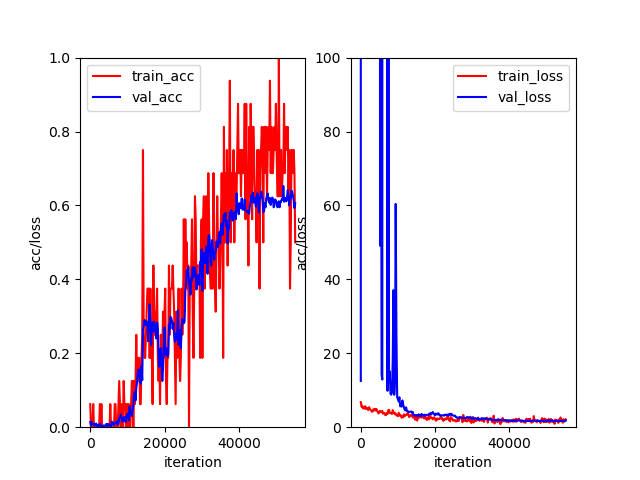
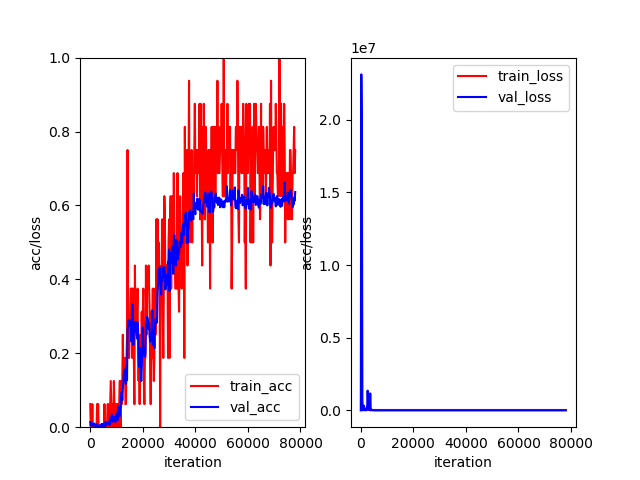
提交一些修改

diff --git a/tensorflow_models_learning-master/main_train.py b/tensorflow_models_learning-master/main_train.py
@@ -45,7 +45,7 @@ def net_evaluation(sess,loss,accuracy,val_images_batch,val_labels_batch,val_nums
     mean_acc = np.array(val_accs, dtype=np.float32).mean()
     return mean_loss, mean_acc
 
-def step_train(train_op,loss,accuracy,
+def step_train(train_op,loss,accuracy,max_steps,
                train_images_batch,train_labels_batch,train_nums,train_log_step,
                val_images_batch,val_labels_batch,val_nums,val_log_step,
                snapshot_prefix,snapshot,RESTORE_FROM_CHECKPOINT, restore_steps):
@@ -54,6 +54,7 @@ def step_train(train_op,loss,accuracy,
     :param train_op: 训练op
     :param loss:     loss函数
     :param accuracy: 准确率函数
+    :param max_steps: 最大步数
     :param train_images_batch: 训练images数据
     :param train_labels_batch: 训练labels数据
     :param train_nums:         总训练数据
@@ -68,7 +69,7 @@ def step_train(train_op,loss,accuracy,
     '''
     saver = tf.train.Saver()
     max_acc = 0.0
-    # restore_steps = 0
+    init_steps = 0
     with tf.Session() as sess:
 
         sess.run(tf.global_variables_initializer())
@@ -77,6 +78,7 @@ def step_train(train_op,loss,accuracy,
         # 恢复之前的训练状态  修改下面的判断语句和读入的文件步数即可
         # RESTORE_FROM_CHECKPOINT = True
         if RESTORE_FROM_CHECKPOINT:
+            init_steps = restore_steps
             restore_file = './models/model.ckpt-{}'.format(str(restore_steps))
             saver.restore(sess, restore_file)
             print("[INFO]restore from file ", restore_file)
@@ -84,7 +86,7 @@ def step_train(train_op,loss,accuracy,
         coord = tf.train.Coordinator()
         threads = tf.train.start_queue_runners(sess=sess, coord=coord)
 
-        for i in range(restore_steps, max_steps + 1):  
+        for i in range(init_steps, max_steps + 1):  
             batch_input_images, batch_input_labels = sess.run([train_images_batch, train_labels_batch])
             _, train_loss = sess.run([train_op, loss], feed_dict={input_images: batch_input_images,
             input_labels: batch_input_labels,
@@ -184,9 +186,11 @@ def train(train_record_file,
     LEARNING_RATE_DECAY = 0.99 # 设置学习衰减率为0.99
     LEARNING_RATE_STEP = 100 # 设置喂入多少轮BATCH_SIZE之后更新一次学习率,一般设置为 总样本数/BATCH_SIZE
 
-    global_steps = tf.Variable(0,trainable = False)
-    # if RESTORE_FROM_CHECKPOINT: 
-    #     global_steps = tf.Variable(restore_steps,trainable = False)
+    global_steps = None
+    if RESTORE_FROM_CHECKPOINT: 
+        global_steps = tf.Variable(restore_steps,trainable = False)
+    else:
+        global_steps = tf.Variable(0,trainable = False)
     learing_rate = tf.train.exponential_decay(LEARNING_RATE_BASE, global_steps,LEARNING_RATE_STEP,LEARNING_RATE_DECAY,staircase=True)             
 
     optimizer = tf.train.AdamOptimizer(learing_rate, 0.9)
@@ -205,15 +209,15 @@ def train(train_record_file,
 
     accuracy = tf.reduce_mean(tf.cast(tf.equal(tf.argmax(out, 1), tf.argmax(input_labels, 1)), tf.float32))
 
-    step_train(train_op, loss, accuracy,
+    step_train(train_op, loss, accuracy,max_steps,
                train_images_batch, train_labels_batch, train_nums, train_log_step,
                val_images_batch, val_labels_batch, val_nums, val_log_step,
                snapshot_prefix, snapshot, RESTORE_FROM_CHECKPOINT, restore_steps)
 
-if __name__ == '__main__':
+def main_train():
     dataset_file = 'food_large_dataset'
-    train_record_file='{}/record/train224.tfrecords'.format(dataset_file)
-    val_record_file='{}/record/val224.tfrecords'.format(dataset_file)
+    train_record_file='{}/record/train{}.tfrecords'.format(dataset_file,resize_height)
+    val_record_file='{}/record/val{}.tfrecords'.format(dataset_file,resize_height)
 
     train_log_step=200
     base_lr = 0.000001  # 学习率
@@ -226,8 +230,8 @@ if __name__ == '__main__':
 
     # 恢复之前的训练状态  修改下面的判断语句和读入的文件步数即可 
     # 读取 'models/model.ckpt-restore_steps' 文件
-    RESTORE_FROM_CHECKPOINT = True
-    restore_steps = 55000
+    RESTORE_FROM_CHECKPOINT = False
+    restore_steps = 60000
 
     train(train_record_file=train_record_file,
           train_log_step=train_log_step,
@@ -243,3 +247,39 @@ if __name__ == '__main__':
           )
 
     show_data_from_file()
+
+def test_lr_train():
+    dataset_file = 'food_large_dataset'
+    train_record_file='{}/record/train{}.tfrecords'.format(dataset_file,resize_height)
+    val_record_file='{}/record/val{}.tfrecords'.format(dataset_file,resize_height)
+
+    train_log_step=20
+    base_lr = 0.001 # 学习率
+    max_steps = 2000  # 迭代次数
+    train_param=[base_lr,max_steps]
+
+    val_log_step=train_log_step
+    snapshot=1000#保存文件间隔
+    snapshot_prefix='models/model.ckpt'
+
+    # 恢复之前的训练状态  修改下面的判断语句和读入的文件步数即可 
+    # 读取 'models/model.ckpt-restore_steps' 文件
+    RESTORE_FROM_CHECKPOINT = False
+    restore_steps = 60000
+
+    train(train_record_file=train_record_file,
+          train_log_step=train_log_step,
+          train_param=train_param,
+          val_record_file=val_record_file,
+          val_log_step=val_log_step,
+          labels_nums=labels_nums,
+          data_shape=data_shape,
+          snapshot=snapshot,
+          snapshot_prefix=snapshot_prefix,
+          RESTORE_FROM_CHECKPOINT = RESTORE_FROM_CHECKPOINT,
+          restore_steps = restore_steps
+          )
+
+
+if __name__ == '__main__':
+    test_lr_train()

diff --git a/tensorflow_models_learning-master/custom_acc_loss.py b/tensorflow_models_learning-master/custom_acc_loss.py
@@ -6,6 +6,7 @@ import time
 
 # date_time = str(time.asctime(time.localtime(time.time())).replace(':','-'))
 date_time = 'Mon May  4 00-17-12 2020'
+logfile = 'logs/log_{}.txt'.format(date_time)
 datafile = 'logs/loss_acc_{}.txt'.format(date_time)
 plotFile = 'logs/plot/plot_{}.png'.format(date_time)
 plotaccFile = 'logs/plot/plot_acc_{}.png'.format(date_time)
@@ -72,11 +73,12 @@ def show_data_from_file(filename = datafile):
         for t in label_tuple:
             x.append(t[0])
             y.append(t[1])
+        
 
         plt.plot(x, y, color =lines_color[lines_loss_label.index(label)], label = label)
 
 
-    plt.ylim(0,100)
+    # plt.ylim(0,100)
     plt.xlabel('iteration')
     plt.ylabel('acc/loss')
     plt.legend(loc ='best')
@@ -98,6 +100,7 @@ def write_data_to_file(filename, data):
 def feed_data_to_file(i_step=2, train_loss=0, train_acc=0, val_loss=0, val_acc=0):
     data = generate_data_dict(i_step, train_loss, train_acc, val_loss, val_acc)
     write_data_to_file(datafile, data)
+
 
 if __name__ == '__main__':
     show_data_from_file()

diff --git a/tensorflow_models_learning-master/create_tf_record.py b/tensorflow_models_learning-master/create_tf_record.py
@@ -295,11 +295,11 @@ def mkdir(path):
 if __name__ == '__main__':
     # 参数设置
 
-    resize_height = 224  # 指定存储图片高度
-    resize_width = 224  # 指定存储图片宽度
+    resize_height = 299  # 指定存储图片高度
+    resize_width = 299  # 指定存储图片宽度
     shuffle=True
     log=5
-    dataset_file = "food_little_dataset"
+    dataset_file = "food_large_dataset"
     # 产生train.record文件
     train_labels = '{}/train.txt'.format(dataset_file)  # 图片路径
     mkdir("{}/record".format(dataset_file))

diff --git a/djangoDemo/app_demo/predict/predict_img.py b/djangoDemo/app_demo/predict/predict_img.py
@@ -71,7 +71,7 @@ def get_top_result(pre_score, labels, label_id, max_top = 3, score_threshod = 0.
         top_dict['label_name'] = str(labels[pre_sort[i]])
         top_dict['label_id'] = str(label_id[pre_sort[i]])
         if i == 0 or pre_score[0][pre_sort[i]] > score_threshod:
-            result [i+1] = top_dict
+            result ["top_{}".format(i+1)] = top_dict
     return result
 
 
